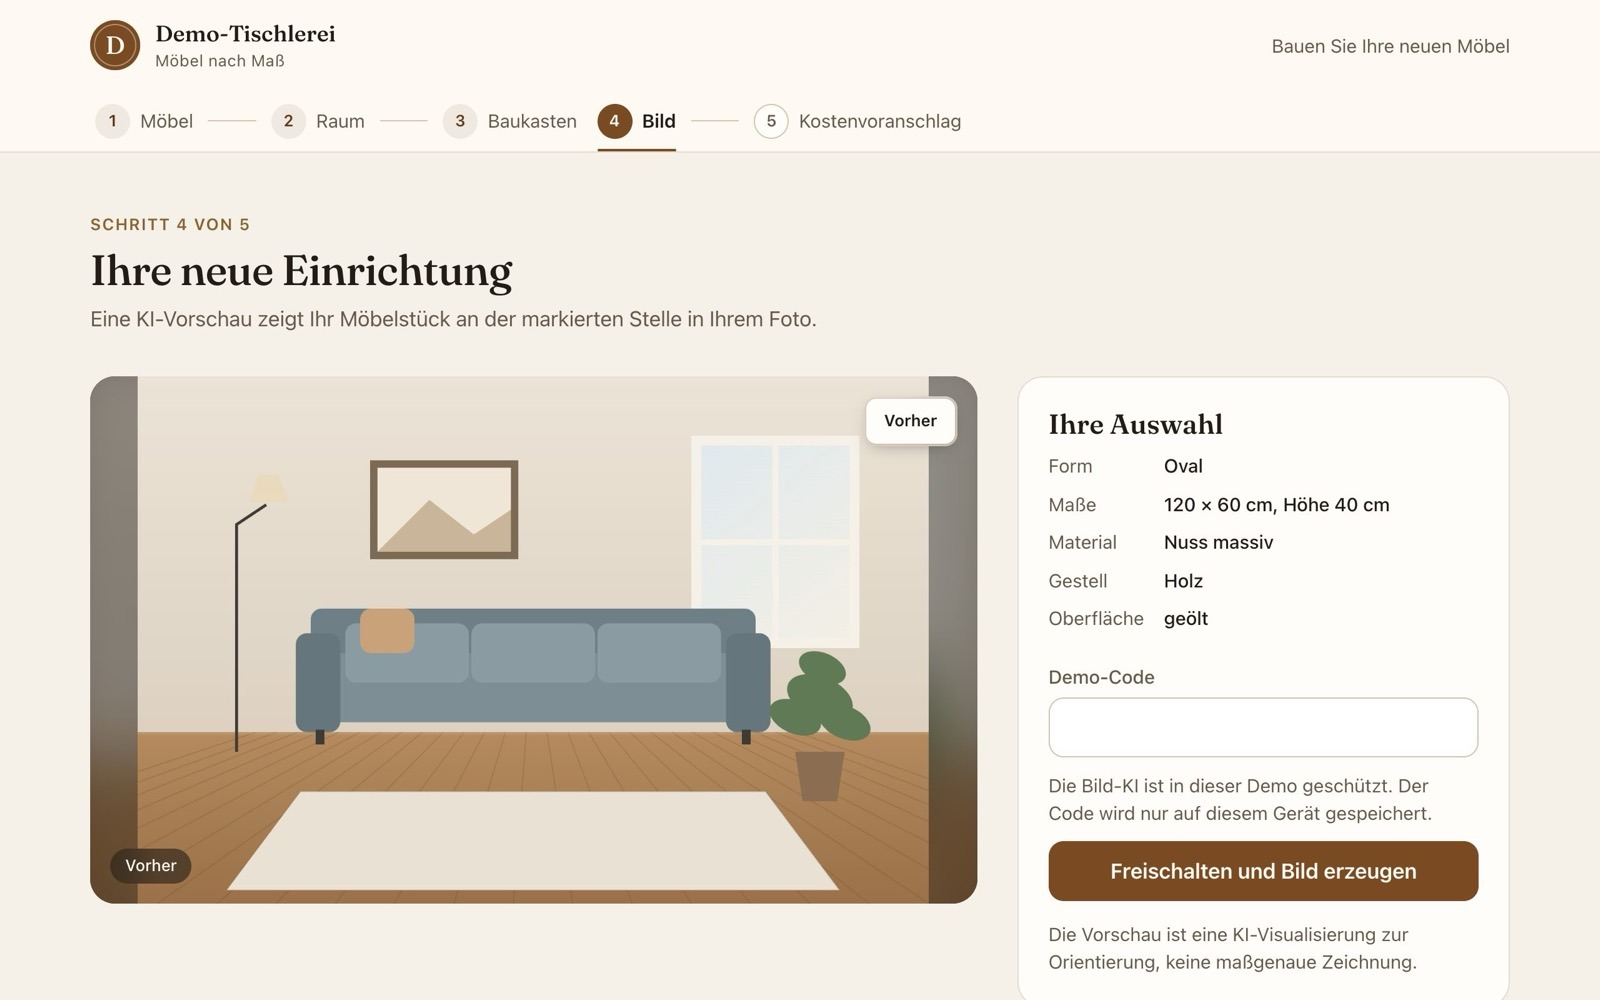
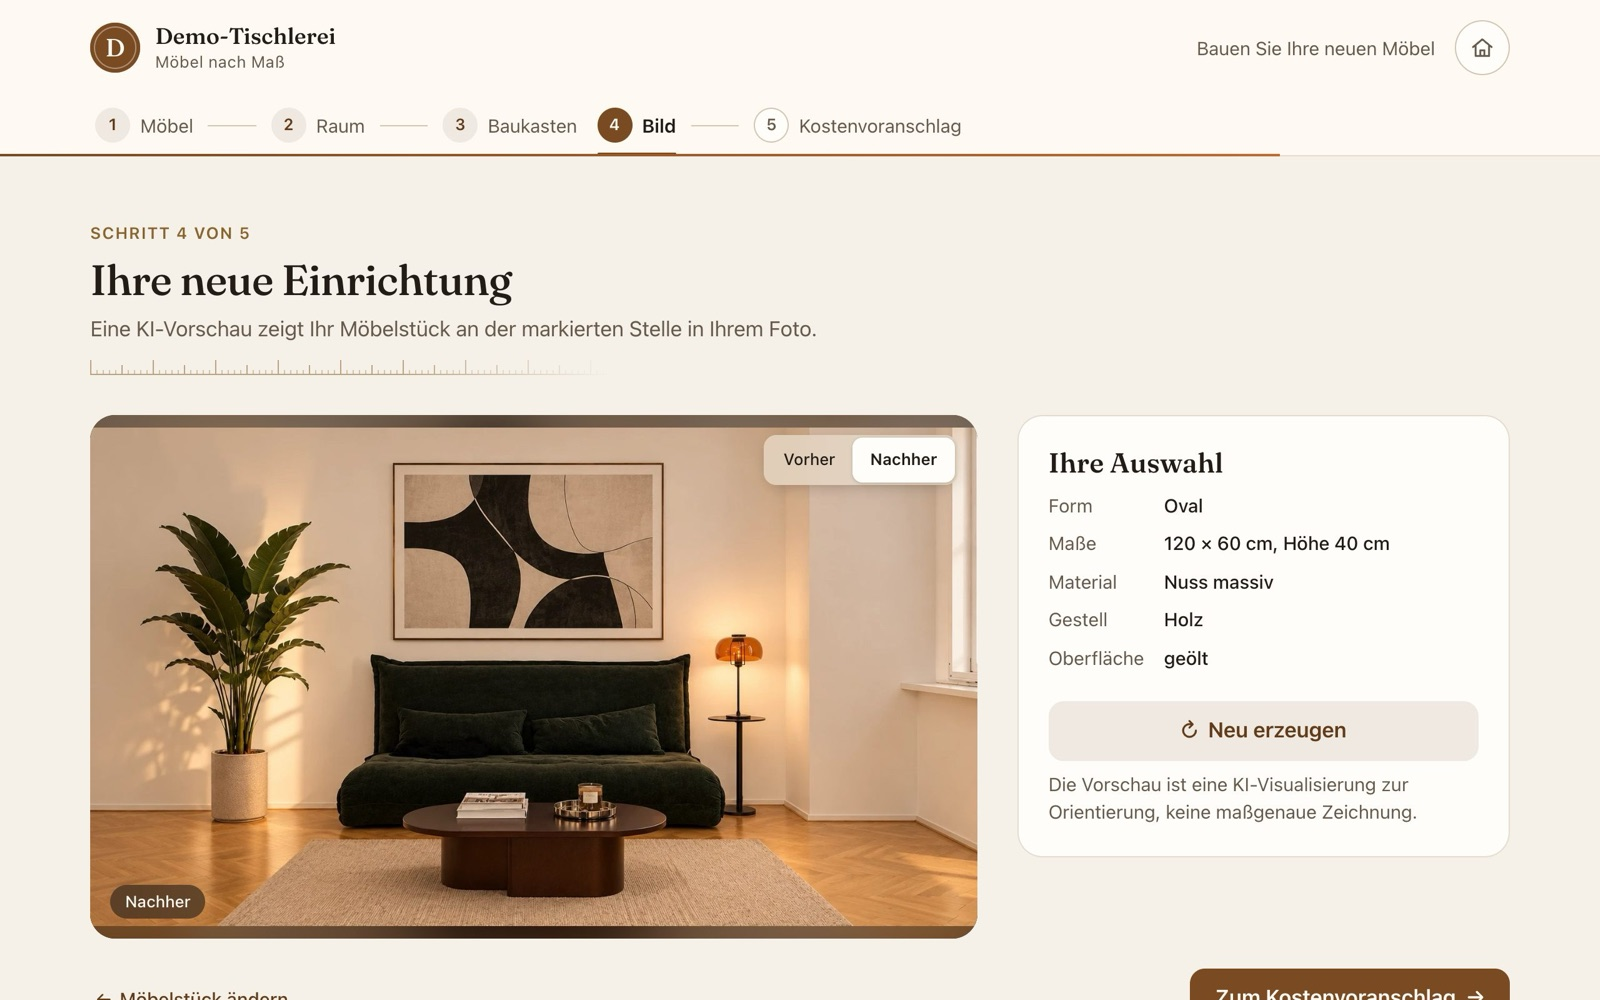
Landingpage: Raum mit hellem Tisch ohne Markierung, Baukasten/Bild/KV mit KI-Ergebnis

diff --git a/tischlereien.html b/tischlereien.html
@@ -48,7 +48,7 @@
         <figure class="held-bild">
           <div class="geraet">
             <div class="geraet-leiste" aria-hidden="true"><i></i><i></i><i></i><span>demo-tischlerei · konfigurator</span></div>
-            <img src="assets/landing/schritt-baukasten.jpg" width="1600" height="1000" fetchpriority="high" alt="Baukasten des Konfigurators: Raumfoto, Form, Material und geschätzter Preis">
+            <img src="assets/landing/schritt-baukasten.jpg" width="1600" height="1000" fetchpriority="high" alt="Baukasten des Konfigurators: KI-Vorschau im Wohnzimmer, Form, Material und geschätzter Preis">
           </div>
           <div class="ki-karte" aria-hidden="true">
             <span class="ki-symbol"><svg viewBox="0 0 24 24" width="22" height="22" fill="currentColor"><path d="M12 2l1.9 5.6L19.5 9.5l-5.6 1.9L12 17l-1.9-5.6L4.5 9.5l5.6-1.9z"/><path d="M19 14l.9 2.6 2.6.9-2.6.9L19 21l-.9-2.6-2.6-.9 2.6-.9z" opacity=".75"/></svg></span>
@@ -111,7 +111,7 @@
             </div>
           </li>
           <li class="schritt">
-            <figure class="bild" data-bewegung="rechts"><img src="assets/landing/schritt-raum.jpg" width="1600" height="1000" loading="lazy" alt="Raumfoto eines Wohnzimmers mit markiertem Sofa (220 cm) als Maßstab und markiertem Standort für das Möbel"></figure>
+            <figure class="bild" data-bewegung="rechts"><img src="assets/landing/schritt-raum.jpg" width="1600" height="1000" loading="lazy" alt="Raum-Schritt mit hochgeladenem Wohnzimmerfoto, bereit zum Markieren"></figure>
             <div class="schritt-text" data-bewegung="links">
               <p class="schritt-nr">Schritt 2</p>
               <h3>Raum fotografieren</h3>
@@ -127,7 +127,7 @@
             </div>
           </li>
           <li class="schritt">
-            <figure class="bild" data-bewegung="rechts"><img src="assets/landing/schritt-bild.jpg" width="1600" height="1000" loading="lazy" alt="Bild-Schritt mit Raumfoto und Zusammenfassung der Auswahl"></figure>
+            <figure class="bild" data-bewegung="rechts"><img src="assets/landing/schritt-bild.jpg" width="1600" height="1000" loading="lazy" alt="Bild-Schritt: KI-Vorschau mit ovalem Couchtisch in Nuss im Wohnzimmer und Zusammenfassung der Auswahl"></figure>
             <div class="schritt-text" data-bewegung="links">
               <p class="schritt-nr">Schritt 4</p>
               <h3>Vorschau im eigenen Raum <span class="ki-marke">KI</span></h3>
@@ -135,7 +135,7 @@
             </div>
           </li>
           <li class="schritt">
-            <figure class="bild" data-bewegung="links"><img src="assets/landing/schritt-kostenvoranschlag.jpg" width="1600" height="1000" loading="lazy" alt="Unverbindlicher Kostenvoranschlag mit Positionen und Preisrahmen"></figure>
+            <figure class="bild" data-bewegung="links"><img src="assets/landing/schritt-kostenvoranschlag.jpg" width="1600" height="1000" loading="lazy" alt="Unverbindlicher Kostenvoranschlag mit KI-Vorschau, Positionen und Preisrahmen"></figure>
             <div class="schritt-text" data-bewegung="rechts">
               <p class="schritt-nr">Schritt 5</p>
               <h3>Preisrahmen und Anfrage</h3>
